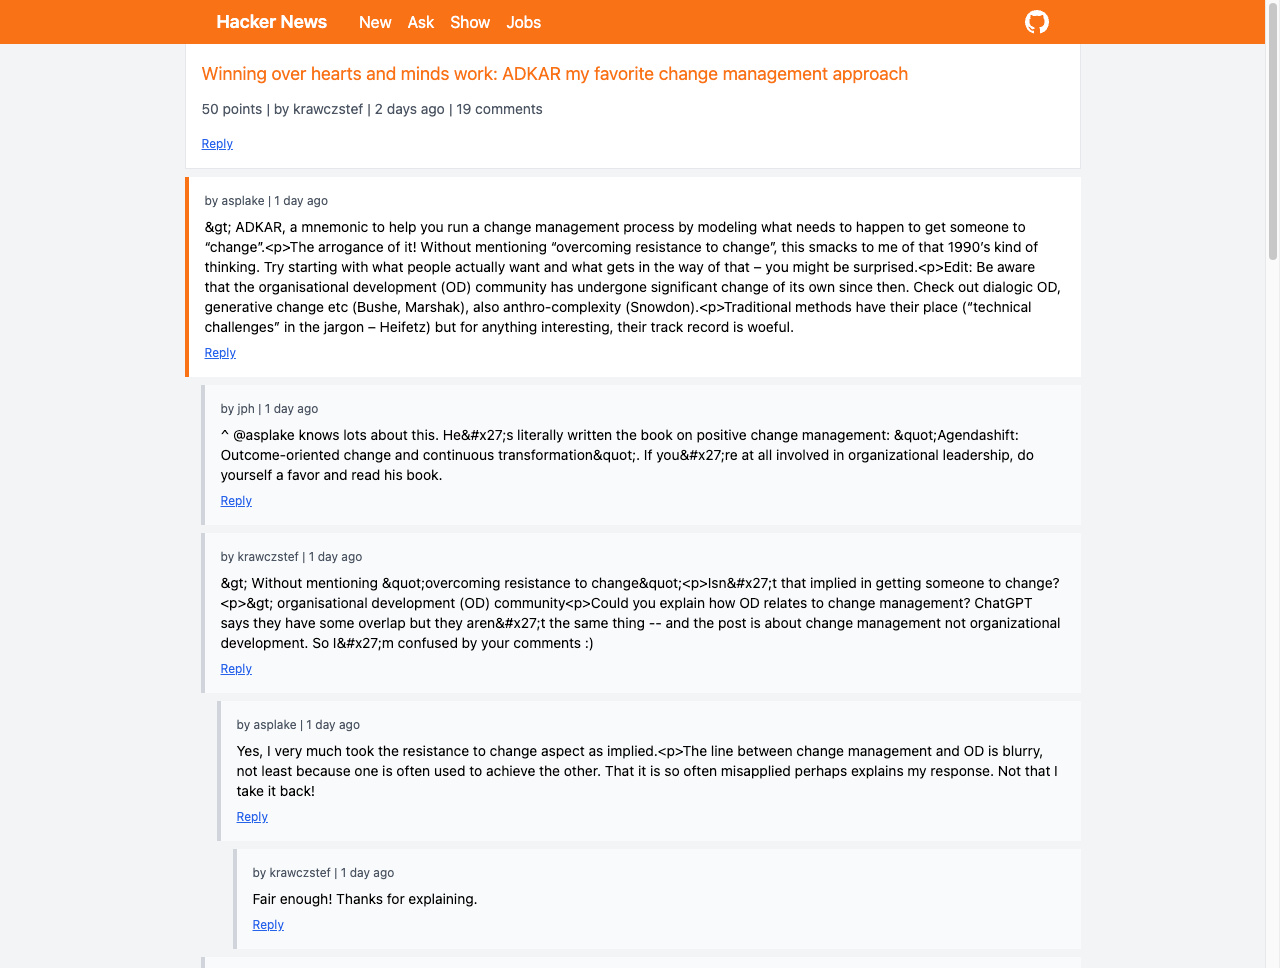
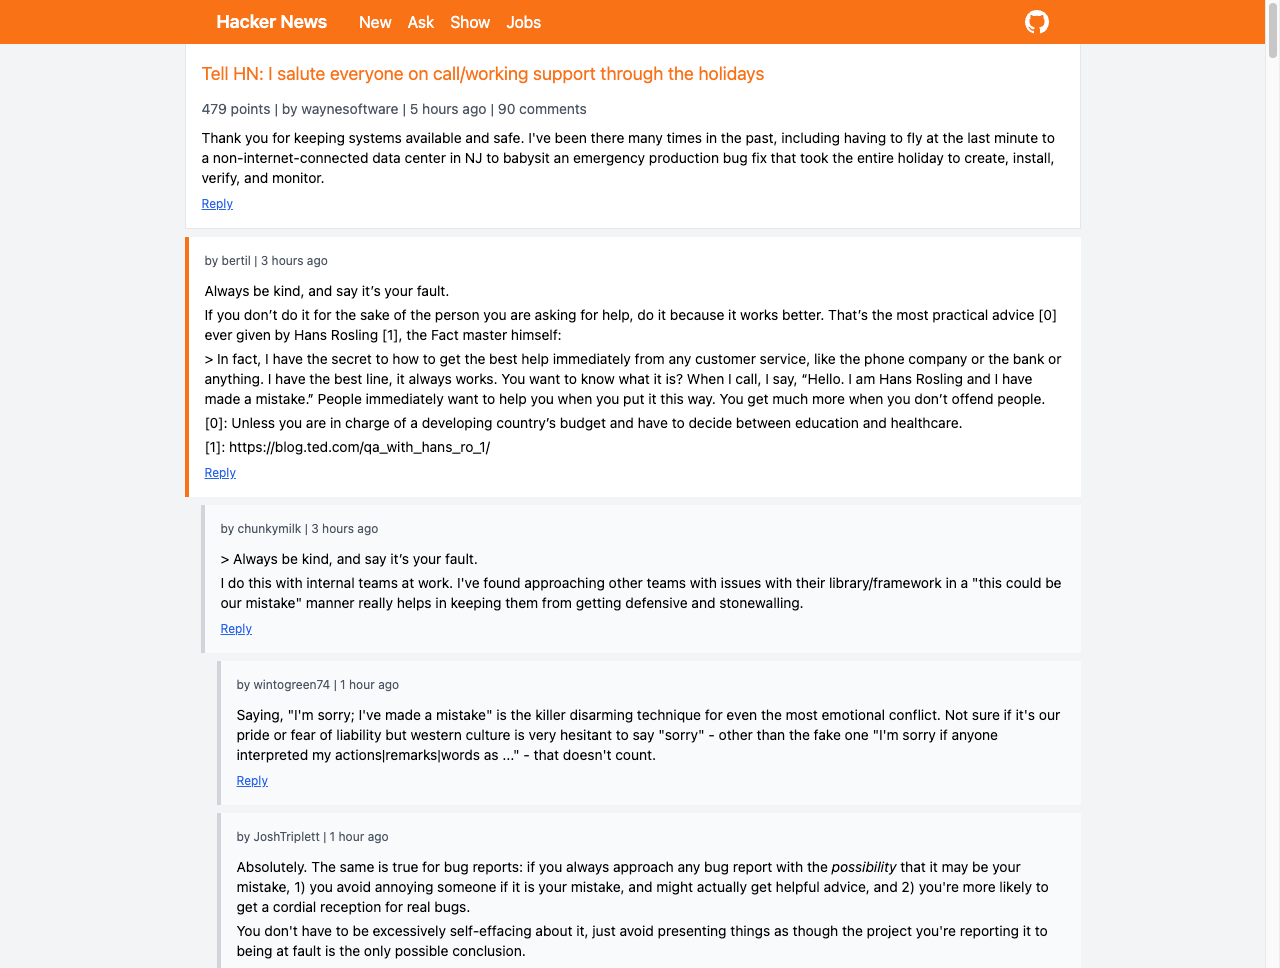
Fixed comment text

diff --git a/components/comments_templ.go b/components/comments_templ.go
@@ -29,9 +29,28 @@ func Comments(comments []hackernews.Item, level int) templ.Component {
 			templ_7745c5c3_Var1 = templ.NopComponent
 		}
 		ctx = templ.ClearChildren(ctx)
+		_, templ_7745c5c3_Err = templ_7745c5c3_Buffer.WriteString("<style type=\"text/css\">")
+		if templ_7745c5c3_Err != nil {
+			return templ_7745c5c3_Err
+		}
+		templ_7745c5c3_Var2 := `
+		p {
+			padding-top: 0.25rem;
+			font-size: 0.875rem;
+			line-height: 1.25rem;
+		}
+	`
+		_, templ_7745c5c3_Err = templ_7745c5c3_Buffer.WriteString(templ_7745c5c3_Var2)
+		if templ_7745c5c3_Err != nil {
+			return templ_7745c5c3_Err
+		}
+		_, templ_7745c5c3_Err = templ_7745c5c3_Buffer.WriteString("</style>")
+		if templ_7745c5c3_Err != nil {
+			return templ_7745c5c3_Err
+		}
 		for _, comment := range comments {
-			var templ_7745c5c3_Var2 = []any{"border-l-4 border-gray-300 bg-gray-50 p-4 mb-2 "}
-			templ_7745c5c3_Err = templ.RenderCSSItems(ctx, templ_7745c5c3_Buffer, templ_7745c5c3_Var2...)
+			var templ_7745c5c3_Var3 = []any{"border-l-4 border-gray-300 bg-gray-50 p-4 mb-2 "}
+			templ_7745c5c3_Err = templ.RenderCSSItems(ctx, templ_7745c5c3_Buffer, templ_7745c5c3_Var3...)
 			if templ_7745c5c3_Err != nil {
 				return templ_7745c5c3_Err
 			}
@@ -49,7 +68,7 @@ func Comments(comments []hackernews.Item, level int) templ.Component {
 				if templ_7745c5c3_Err != nil {
 					return templ_7745c5c3_Err
 				}
-				_, templ_7745c5c3_Err = templ_7745c5c3_Buffer.WriteString(templ.EscapeString(templ.CSSClasses(templ_7745c5c3_Var2).String()))
+				_, templ_7745c5c3_Err = templ_7745c5c3_Buffer.WriteString(templ.EscapeString(templ.CSSClasses(templ_7745c5c3_Var3).String()))
 				if templ_7745c5c3_Err != nil {
 					return templ_7745c5c3_Err
 				}
@@ -70,8 +89,8 @@ func Comments(comments []hackernews.Item, level int) templ.Component {
 			if templ_7745c5c3_Err != nil {
 				return templ_7745c5c3_Err
 			}
-			templ_7745c5c3_Var3 := `by `
-			_, templ_7745c5c3_Err = templ_7745c5c3_Buffer.WriteString(templ_7745c5c3_Var3)
+			templ_7745c5c3_Var4 := `by `
+			_, templ_7745c5c3_Err = templ_7745c5c3_Buffer.WriteString(templ_7745c5c3_Var4)
 			if templ_7745c5c3_Err != nil {
 				return templ_7745c5c3_Err
 			}
@@ -79,8 +98,8 @@ func Comments(comments []hackernews.Item, level int) templ.Component {
 			if templ_7745c5c3_Err != nil {
 				return templ_7745c5c3_Err
 			}
-			var templ_7745c5c3_Var4 templ.SafeURL = templ.URL(fmt.Sprintf("/user?id=%v", comment.By))
-			_, templ_7745c5c3_Err = templ_7745c5c3_Buffer.WriteString(templ.EscapeString(string(templ_7745c5c3_Var4)))
+			var templ_7745c5c3_Var5 templ.SafeURL = templ.URL(fmt.Sprintf("/user?id=%v", comment.By))
+			_, templ_7745c5c3_Err = templ_7745c5c3_Buffer.WriteString(templ.EscapeString(string(templ_7745c5c3_Var5)))
 			if templ_7745c5c3_Err != nil {
 				return templ_7745c5c3_Err
 			}
@@ -88,8 +107,8 @@ func Comments(comments []hackernews.Item, level int) templ.Component {
 			if templ_7745c5c3_Err != nil {
 				return templ_7745c5c3_Err
 			}
-			var templ_7745c5c3_Var5 string = comment.By
-			_, templ_7745c5c3_Err = templ_7745c5c3_Buffer.WriteString(templ.EscapeString(templ_7745c5c3_Var5))
+			var templ_7745c5c3_Var6 string = comment.By
+			_, templ_7745c5c3_Err = templ_7745c5c3_Buffer.WriteString(templ.EscapeString(templ_7745c5c3_Var6))
 			if templ_7745c5c3_Err != nil {
 				return templ_7745c5c3_Err
 			}
@@ -97,13 +116,13 @@ func Comments(comments []hackernews.Item, level int) templ.Component {
 			if templ_7745c5c3_Err != nil {
 				return templ_7745c5c3_Err
 			}
-			templ_7745c5c3_Var6 := `| `
-			_, templ_7745c5c3_Err = templ_7745c5c3_Buffer.WriteString(templ_7745c5c3_Var6)
+			templ_7745c5c3_Var7 := `| `
+			_, templ_7745c5c3_Err = templ_7745c5c3_Buffer.WriteString(templ_7745c5c3_Var7)
 			if templ_7745c5c3_Err != nil {
 				return templ_7745c5c3_Err
 			}
-			var templ_7745c5c3_Var7 string = TimeAgo(comment.Time)
-			_, templ_7745c5c3_Err = templ_7745c5c3_Buffer.WriteString(templ.EscapeString(templ_7745c5c3_Var7))
+			var templ_7745c5c3_Var8 string = TimeAgo(comment.Time)
+			_, templ_7745c5c3_Err = templ_7745c5c3_Buffer.WriteString(templ.EscapeString(templ_7745c5c3_Var8))
 			if templ_7745c5c3_Err != nil {
 				return templ_7745c5c3_Err
 			}
@@ -111,8 +130,7 @@ func Comments(comments []hackernews.Item, level int) templ.Component {
 			if templ_7745c5c3_Err != nil {
 				return templ_7745c5c3_Err
 			}
-			var templ_7745c5c3_Var8 string = comment.Text
-			_, templ_7745c5c3_Err = templ_7745c5c3_Buffer.WriteString(templ.EscapeString(templ_7745c5c3_Var8))
+			templ_7745c5c3_Err = UnescapedText(comment.Text).Render(ctx, templ_7745c5c3_Buffer)
 			if templ_7745c5c3_Err != nil {
 				return templ_7745c5c3_Err
 			}

diff --git a/pages/item_templ.go b/pages/item_templ.go
@@ -61,7 +61,7 @@ func Item(props ItemProps) templ.Component {
 			if templ_7745c5c3_Err != nil {
 				return templ_7745c5c3_Err
 			}
-			_, templ_7745c5c3_Err = templ_7745c5c3_Buffer.WriteString("</a></div><div class=\"mb-4\"><span class=\"text-sm text-gray-600\">")
+			_, templ_7745c5c3_Err = templ_7745c5c3_Buffer.WriteString("</a></div><div class=\"mb-2\"><span class=\"text-sm text-gray-600\">")
 			if templ_7745c5c3_Err != nil {
 				return templ_7745c5c3_Err
 			}
@@ -143,7 +143,25 @@ func Item(props ItemProps) templ.Component {
 			if templ_7745c5c3_Err != nil {
 				return templ_7745c5c3_Err
 			}
-			_, templ_7745c5c3_Err = templ_7745c5c3_Buffer.WriteString("</span></div><div class=\"mt-2\"><a href=\"")
+			_, templ_7745c5c3_Err = templ_7745c5c3_Buffer.WriteString("</span></div>")
+			if templ_7745c5c3_Err != nil {
+				return templ_7745c5c3_Err
+			}
+			if props.Item.Text != "" {
+				_, templ_7745c5c3_Err = templ_7745c5c3_Buffer.WriteString("<div class=\"text-sm word-wrap break-words overflow-wrap break-word\">")
+				if templ_7745c5c3_Err != nil {
+					return templ_7745c5c3_Err
+				}
+				templ_7745c5c3_Err = components.UnescapedText(props.Item.Text).Render(ctx, templ_7745c5c3_Buffer)
+				if templ_7745c5c3_Err != nil {
+					return templ_7745c5c3_Err
+				}
+				_, templ_7745c5c3_Err = templ_7745c5c3_Buffer.WriteString("</div>")
+				if templ_7745c5c3_Err != nil {
+					return templ_7745c5c3_Err
+				}
+			}
+			_, templ_7745c5c3_Err = templ_7745c5c3_Buffer.WriteString("<div class=\"mt-2\"><a href=\"")
 			if templ_7745c5c3_Err != nil {
 				return templ_7745c5c3_Err
 			}

diff --git a/components/components.go b/components/components.go
@@ -1,9 +1,20 @@
 package components
 
 import (
+	"context"
 	"fmt"
+	"io"
 	"time"
+
+	"github.com/a-h/templ"
 )
+
+func UnescapedText(text string) templ.Component {
+	return templ.ComponentFunc(func(ctx context.Context, w io.Writer) error {
+		_, err := io.WriteString(w, text)
+		return err
+	})
+}
 
 func TimeAgo(postTime int64) string {
 	now := time.Now()
